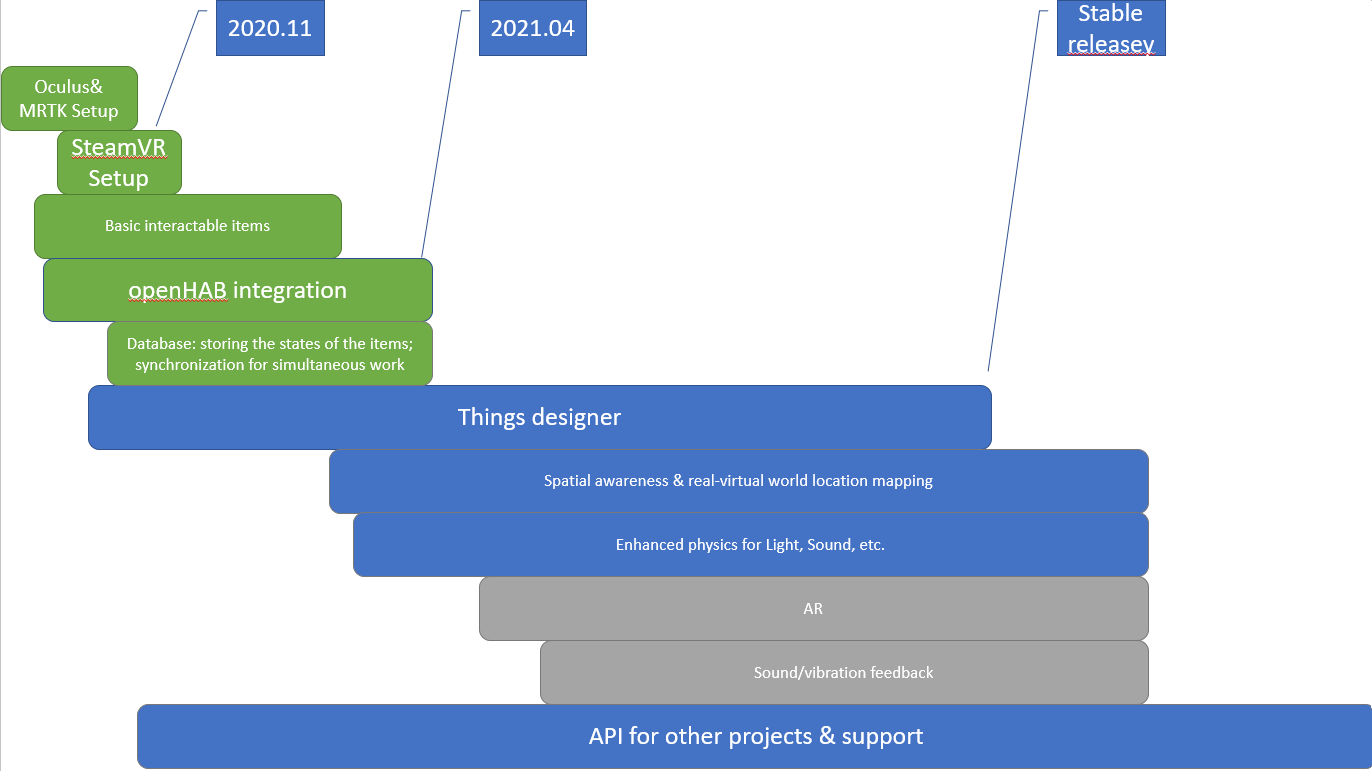
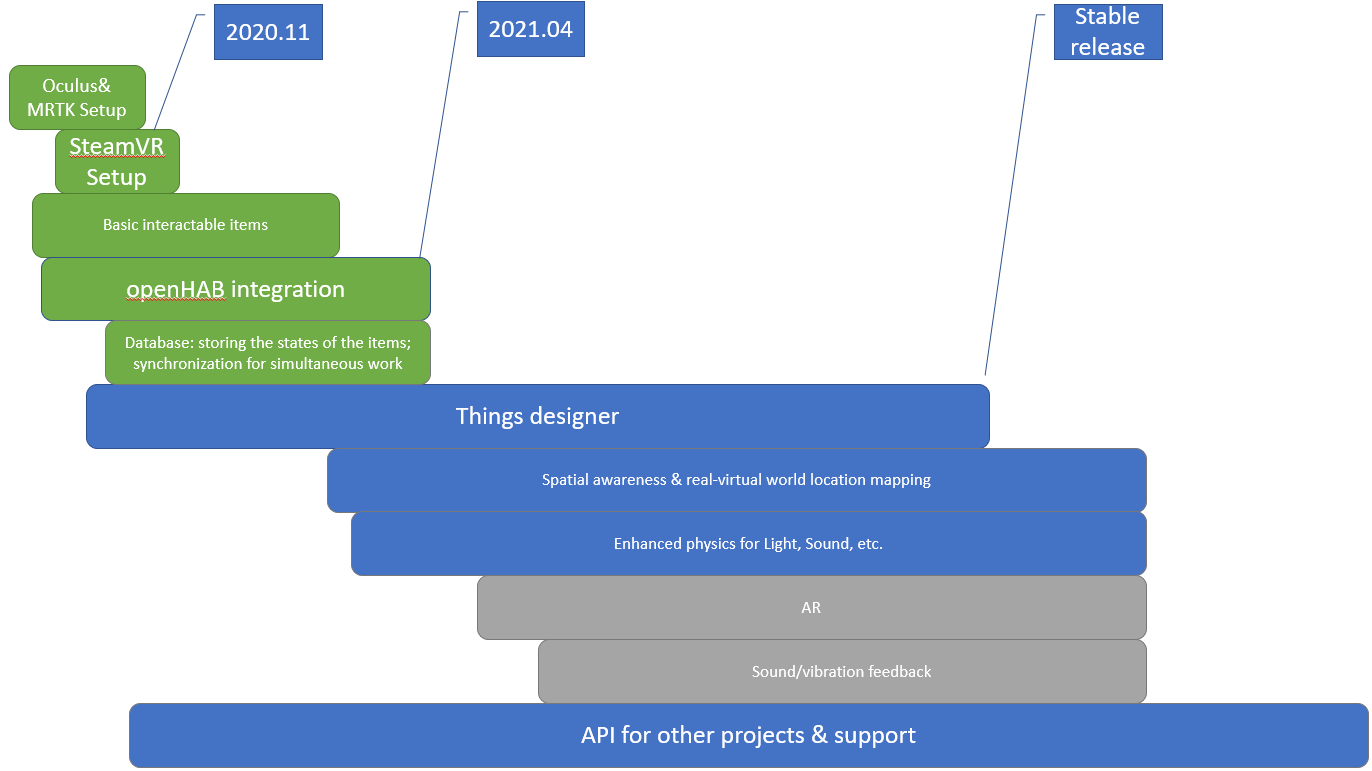
Updates from Overleaf

diff --git a/data/chap04.tex b/data/chap04.tex
@@ -43,7 +43,7 @@ Next is adding items linked to the lamp channels. In the example, the lamp brigh
 
 As seen in Figure~\ref{fig:SemanticModelOne-figure}, the user can move the dimmer to control the lamp's light brightness. The real-world lamp will change the brightness based on the value on the server.
 
-The next step is adding item tags for gesture control and for the light vizualization (Figure~\ref{fig:ItemEditPage-figure}).
+The next step is adding item tags for gesture control and for the light visualization (Figure~\ref{fig:ItemEditPage-figure}).
 
 \begin{figure}
   \centering
@@ -84,7 +84,7 @@ The first experiment is the system startup analysis, performed on three devices 
   \label{fig:SystemStartupScheme-figure}
 \end{figure}
 
-The hardware specifications are listed on Table~\ref{tab:hardware-specifications-table} \footnote{Localhost PC is a notebook running openHAB server as well as one instance of NUIX-Studio APP; Remote PC is a computer running one instance of NUIX-Studio APP and connected to the same Wi-Fi network as localhost PC; Oculus Quest is a Virtual Reality Headset running NUIX-Studio APP and connected to the same Wi-Fi network as PCs.}.
+The hardware specifications are listed in Table~\ref{tab:hardware-specifications-table} \footnote{Localhost PC is a notebook running openHAB server as well as one instance of NUIX-Studio APP; Remote PC is a computer running one instance of NUIX-Studio APP and connected to the same Wi-Fi network as localhost PC; Oculus Quest is a Virtual Reality Headset running NUIX-Studio APP and connected to the same Wi-Fi network as PCs.}.
 
 \begin{table}
   \centering
@@ -136,23 +136,76 @@ The results of this experiment will be used in the future: system initialization
 
 The following experiment uses a virtual reality headset, a smart light bulb, and a server running an application on it. Suppose that a light sensor is used inside a Smart home environment, located at a relatively large distance from the lamp (2-3 meters), and is triggered when the amount of light falling on its sensor exceeds a certain threshold. For example, this setup is used in industries to provide a comfortable lighting level while keeping an optimal amount of energy consumption. The light sensor triggers precisely at some sufficiently large value of the lamp brightness. Hence, the most accurate adjustment of the brightness level of the light bulb is needed.
 
-The previous experiment showed that gesture control could be used to control a lamp's brightness level. This experiment shows that the transfer of computations from the Virtual reality headset to the server is necessary. The user is asked to perform the same steps as in the previous experiment, with one more step added:  setting the brightness to the specified level. Suppose that the light sensor is triggered at a lamp light brightness level of 50 out of 100 \footnote{Using Fitts' law, it can be assumed that setting up brightness levels to different values takes different time. However, this effect is considered not significant for the experiment.}. The user's task is to set the light brightness to this value as quickly as possible using gesture control. In order to exclude additional operations not related to the direct use of gestures to change the brightness of the lamp, such as starting the system, the user had to repeat the step by setting the brightness of the light to the specified value two times. The interval between the first and second times, when the lamp brightness was equal to the specified value, can be divided into two components (Equation \eqref{eq:totaltime}): the user reaction time to a successful change in the brightness level $ t_{react} $, and the execution time of the new calibrations $ t_{cal} $.
+The previous experiment showed that gesture control could be used to control a lamp's brightness level. This experiment shows that the transfer of computations from the Virtual reality headset to the server is necessary in a specific case. The user is asked to perform the same steps as in the previous experiment, with one more step added:  setting the brightness to the specified level. Suppose that the light sensor is triggered at a lamp light brightness level of 50 out of 100 \footnote{Using Fitts' law, it can be assumed that setting up brightness levels to different values takes different time. However, this effect is considered not significant for the experiment.}. The user's task is to set the light brightness to the specified value as quickly as possible using gesture control. In order to omit additional operations not related to the direct use of gestures to change the brightness of the lamp, such as starting the system, the user had to repeat the step by setting the brightness of the light to the specified value two times. The interval between the first and second times, when the lamp brightness is equal to the specified value, can be divided into two components (Equation \eqref{eq:totaltime}): the user reaction time to a successful change in the brightness level $ t_{react} $, and the execution time of the new calibrations $ t_{cal} $.
+
 
 \begin{equation}
   t = t_{react} + t_{cal}
   \label{eq:totaltime}
 \end{equation}
 
-Five people participated in the two series of the experiment. In the first series, the light's illumination was computed on a Virtual reality headset, and in the second, on a server, periodically sending the lightmap to the Virtual reality headset. In each series of the experiment, twenty-five measurements were made, plotted on the graph (). User reaction time $ t_{react} $ is a value independent of the changed synchronization parameters. Therefore, the difference between the calculated time in the first and the second series of the experiment is equal to the difference between the time spent on calibrating the lamp brightness in the first and the second series of the experiment (Equation \eqref{eq:deltatime}).
+Two people participated in the two series of the experiment. In the first series, the light's illumination was computed on a Virtual reality headset, and in the second, on a server, periodically calculating the light map. User reaction time $ t_{react} $ is a value independent of the changed synchronization parameters. Therefore, the difference between the calculated time in the first and the second series of the experiment is equal to the difference between the time spent on calibrating the lamp brightness in the first and the second series of the experiment (Equation \eqref{eq:deltatime}).
 
 \begin{equation}
-  t _{\delta} = (t_{react} + t_{cal_1}) - (t_{react} + t_{cal_1}) = t_{cal_1} - t_{cal_2}
+  t _{\Delta} = (t_{react} + t_{cal_1}) - (t_{react} + t_{cal_1}) = t_{cal_1} - t_{cal_2}
   \label{eq:deltatime}
 \end{equation}
 
-As seen on the resulting histogram, the time difference between performing the calibration function in the first and second series of the experiment is 500 milliseconds.
+\begin{figure}
+  \centering
+  \includegraphics[width = 0.9 \linewidth]{figures/ExperimentTime.png}
+  \caption{Time spent on calibrating the lamp brightness, in ms}
+  \label{fig:ExperimentTime-figure}
+\end{figure}
 
-Additional data were also analyzed during the experiment, such as the number of frames per second with which the NUIX-Studio App was rendered on the screen. The graph () shows that in the first series of the experiment, the number of frames per second drops significantly as soon as the system is initialized and widgets for items from the Semantic model are created: from 72 frames per second, which is a hardware limitation of the Virtual reality headset, to 20 frames per second. In the second series of the experiment, such a drop is no longer observed (link to the graph): because the illumination was computed on a separate device, the number of frames per second drops only slightly from 72 to 65\footnote{Probably, because illumination computation is significant for the device's performance, especially its Graphics processing unit.}. Considering that gesture recognition is processed no more than once per frame, it significantly influenced the user experience, resulting in a big $t_{\delta}$. The more responsive the controller is, the faster the user can perform tasks such as clicking the buttons. However, the experiment's main challenge was to show how transferring resource-intensive computing from a VR headset to a server improves user experience, significant for the VR-IoT Research platform. Thus, the experiment can be considered successful.
+As it can be seen in the Figure~\ref{fig:ExperimentTime-figure}, the time it took the participants to perform the task is unstable, but it is still can be seen that on average it took more time to perform the task in the first series than in the second series for both users. In Figure~\ref{fig:DeltaTime-figure} it can be seen that $t_{\Delta}$ is more than zero for the most observations.
+
+\begin{figure}
+  \centering
+  \includegraphics[width = 0.9 \linewidth]{figures/DeltaTime.png}
+  \caption{The difference between the time spent on calibrating the lamp brightness in the first and the second series of the experiment, in ms}
+  \label{fig:DeltaTime-figure}
+\end{figure}
+
+Additional data were also analyzed during the experiment, such as the number of frames per second with which the NUIX-Studio App was rendered on the screen. Figure~\ref{fig:Series2FPSpng-figure} shows that in the first series of the experiment, the number of frames per second drops significantly as soon as the system is initialized and widgets for items from the Semantic model are created. In the second series of the experiment, such a drop is no longer observed (Figure~\ref{fig:Series1FPSpng-figure}): because the illumination was computed on a separate device, the number of frames per second drops only slightly \footnote{Probably, because illumination computation is significant for the device's performance, especially its Graphics processing unit.}.
+
+
+\begin{figure}
+  \centering
+  \includegraphics[width = 0.9 \linewidth]{figures/Series2FPSpng.png}
+  \caption{FPS graph during the first series of the experiment for transfer computations.}
+  \label{fig:Series2FPSpng-figure}
+\end{figure}
+
+\begin{figure}
+  \centering
+  \includegraphics[width = 0.9 \linewidth]{figures/Series1FPS.png}
+  \caption{FPS graph during the second series of the experiment for transfer computations.}
+  \label{fig:Series1FPSpng-figure}
+\end{figure}
+
+Considering that gesture recognition is processed no more than once per frame, it significantly influenced the user experience, resulting in a big $t_{\Delta}$. The frequency of gesture value retrieval can be called polling rate. When a polling rate is 1000Hz, the gesture position is retrieved only once per frame (Table~\ref{tab:polling-rate-table}). Probably, there is a linear dependency on the time spent on performing the test and the polling rate during the test.
+
+\begin{table}
+  \centering
+  \begin{threeparttable}[c]
+    \caption{Polling rate to response time of gesture recognition dependence}
+    \label{tab:polling-rate-table}
+    \begin{tabular}{ll}
+      \toprule
+      Polling rate, Hz    & Response time, ms                 \\
+      \midrule
+      72Hz & 13.9ms \\
+      65Hz & 15.4ms \\
+      20Hz & 50ms \\
+      10Hz & 100ms \\
+      \bottomrule
+    \end{tabular}
+  \end{threeparttable}
+\end{table}
+
+However, the experiment's main challenge was to show how transferring resource-intensive computing from a VR headset to a server improves user experience, significant for the VR-IoT Research platform. Thus, the experiment can be considered successful.\footnote{Please note that this experiment cannot be considered scientifically substantiated since the number of tests and the number of participants is small. In addition, it is impossible to control the external factors that add random error, such as system optimization that affects the stability of the frame rate, room lighting that affects the accuracy of hand recognition, the size of the participants' hands, and the participants' experience with virtual reality systems. As a result, the reproduction of this experiment is almost impossible. Nevertheless, this experiment serves as an example of the requirement to transfer resource-intensive computing from the VR headset to the server.
+}
 
 
 In the next experiment, the author proved that it is possible to work together in one VR-IoT environment by adding new IoT devices to the system and changing their parameters:
@@ -163,4 +216,4 @@ In the next experiment, the author proved that it is possible to work together i
 
 Thus, the speed of the network plays a significant role in the operation of the system. The minimal network latency available now in Wi-Fi 6 networks and 6G networks in the future can significantly improve the simultaneous work inside the same VR-IoT environment. However, it has been observed that operations such as adding new devices to the system will remain time-consuming. Since there is a request to create game objects for each of the Item's widgets, the author assumes that the main delay is associated precisely with the internal processes inside the Unity 3D engine.
 
-The next chapter will show you how the VR-IoT research platform developers can theoretically work around these limitations.
+The next chapter shows how the VR-IoT research platform developers can theoretically work around these limitations.

diff --git a/data/chap06.tex b/data/chap06.tex
@@ -1,31 +1,56 @@
 % !TeX root = ../thuthesis-example.tex
 
-\chapter{SUMMARY, DISCUSSION AND FUTURE DIRECTIONS}
+\chapter{DISCUSSION}
 
-\section{Discussion and future directions}
+\section{Future directions}
 
-The work's novelty lies in the fact that there are no studies on the creation and interaction of devices for a VR-IoT environment. All similar researches concentrate on controlling IoT devices using Virtual reality headsets.
-The author hopes to continue working on the platform in the future in the university laboratory. The possible timeline for the development has been created.
+The possible timeline for the development was created.
 
 \begin{figure}
   \centering
   \includegraphics[width=0.9\linewidth]{figures/Timeline.png}
-  \caption{Timeline}
+  \caption{Timeline for NUIX-Studio platform development. Green color indicates that the task has been developed, blue color indicates that the task development has been started, and grey color that it has not started yet.}
   \label{fig:Timeline-figure}
 \end{figure}
 
-As seen in (Figure~\ref{fig:Timeline-figure}), the development started from providing support for Virtual reality headsets. The next step was implementing openHAB and database support to perform simultaneous interaction in the same environment by several App instances. In the text of this research, it was discussed that these two tasks could be considered complete. However, the Things designer is not fully developed since further research is needed to provide a wider variety of supported Widgets and Items.
+As seen in Figure~\ref{fig:Timeline-figure}, the development started from providing support for Virtual reality headsets. The next step was implementing openHAB and database support to perform simultaneous interaction in the same environment by several App instances. In the text of this research, it was discussed that these two tasks could be considered complete. However, the Things designer is not fully developed since further research is needed to provide a wider variety of the supported Widgets and Items.
 
 Mixed Reality toolkit can provide real-world environmental awareness for apps running on Hololens. It is already possible to run NUIX-Studio APP on Hololens, although it has not yet been tested. Using spatial awareness, NUIX-Studio App will be possible to align virtual Widgets onto IoT devices. Developing real-virtual world location mapping for the Widgets for Virtual reality will be required as well.
 
 Currently, only advanced illumination can be computed on the NUIX-Studio APP. Researchers may need more accurate data to create new IoT devices. In this case, Unity Game Engine can be extended with more precise light, sound, and other physics support.
 
-Providing AR support requires adding new interaction techniques and training Deep learning models to provide object recognition. Users can use both AR and VR to research new IoT devices, with AR being responsible for retrieving the coordinates of the devices from the real world (by OpenCV, Tensoflow Graphics, etc.), and VR for visualizing environments that are difficult or impossible to implement in AR (for example, flying on a plane or driving a car).
+Enabling AR support requires adding new interaction techniques and training Deep learning models to provide object recognition. Users can use both AR and VR to research new IoT devices, with AR being responsible for retrieving the coordinates of the devices from the real world (by OpenCV, Tensoflow Graphics, etc.), and VR for visualizing environments that are difficult or impossible to implement in AR (for example, flying on a plane or driving a car).
 
 Augmented reality, Virtual reality, and Mixed Reality are not the only interfaces to interact with IoT in the virtual world. What if the feedback from IoT devices only by sound and vibrations is provided? NUIX-Studio can be adapted for such limitations. One of the example usages of this approach is research for visually impaired people in an IoT environment.
 
-During the entire development cycle, an API must be developed for embedding external developments into the platform, including projects of HCI Lab students. 
+The platform is going to be used as a tool to integrate other researches. During the whole development cycle, the NUIX-Studio API for being used in external projects must be up-to-date. 
 
 \section{Summary}
 
-The purpose of the work is completed: a platform for creating new devices for the existing IoT world in Virtual reality is presented, which helps develop new devices. It has been shown that it allows this to be done both theoretically and practically.
+The result of the research is the developed concept of the platform, as well as the basis for the further development of tools for creating IoT devices in virtual, augmented, and mixed reality. By creating a prototype platform, the following results were obtained:
+\begin{enumerate}
+    \item It has been proven that using the presented architecture, any IoT devices can be added to the virtual world;
+    \item It has been proven that it is possible to add new functionality to existing IoT devices inside VR environment;
+    \item It has been proven that it is possible to create completely virtual devices and embed them in the same environment with real devices;
+    \item It has been proven that the synchronization time between devices within the IoT-VR environment is currently limited by the network speed;
+    \item It has been proven that it is possible for several users to work simultaneously in one IoT-VR environment;
+    \item It has been proven that to improve user experience, it is necessary to separate data and interaction calculation tasks between different application instances;
+    \item It is proved that the created solution is scalable;
+\end{enumerate}
+
+
+The developed solution has the following advantages:\footnote{Considering that there are no similar solutions on the market, these advantages can be considered a reserve for the future}
+\begin{enumerate}
+    \item Integration of third-party solutions is possible both from the IoT support side and from the VR side;
+    \item The platform implementation is lightweight and is not based on many third-party frameworks;
+    \item The development team can add new members without the need to teach people new technologies since the main part of the platform is written in C# inside the Unity engine. It also gives the advantage of more convenient adding external projects into the platform;
+    \item An API is being developed to create elements of interaction with IoT devices;
+    \item A tool called Thing designer is being developed, which allows researchers to create new IoT devices both using VR and using the Web interface;
+    \item A tool is being developed to track the position of real devices and synchronize with their position in the virtual world;
+    \item It is shown that the platform is capable of working not only with Virtual but also with Augmented and Mixed reality, and simultaneous operation of each reality-based App within the same IoT environment is possible;
+    \item It is shown that the platform provides support for complex physical computations.
+\end{enumerate}
+
+Nevertheless, there are still limitations associated with creating a complete copy of the real-world environment inside the virtual one, particularly the need to manually add movable objects in the form of Items and Widgets.
+
+The author hopes that this research will form the basis of a product that will have a significant value in the future, allowing the creation of new devices, including those for being used in new generation networks.

diff --git a/data/chap05.tex b/data/chap05.tex
@@ -46,7 +46,7 @@ However, in most cases, researchers can save time by using the basic Widgets. Se
 
 Thanks to using a block structure to represent devices, researchers can change various parameters of existing devices by changing specific blocks and create new devices by combining the blocks. This action is possible in a tool called Things designer. Further, this tool is described in detail.
 
-The Semantic model is visualized inside the Web interface. Researchers can assign Widgets for each of the Items and group the Items. After the setup is completed, researchers can further develop new devices inside the NUIX-Studio App. Next, they can create new Widgets inside VR and connect them to the existing Items. The position for each of the Widgets is added to the Semantic model as an Item. Having set the widget's position and other parameters, the user can exit the application on a device and then continue research using a different device or analyze the items' data stored on the server. Since changes in Items values are periodically written to the server, they can be visualized by the built-in system tools (Figure~\ref{fig: PersistenceExample-figure}) or further analyzed using external frameworks providing useful insights. In addition, NUIX-Studio App also allows the creation of not only Widgets but also Items. However, this functionality is limited at the moment, but, in theory, it will be possible to develop any device with support for creating Items for all types of data.
+The Semantic model is visualized inside the Web interface. Researchers can assign Widgets for each of the Items and group the Items. After the setup is completed, researchers can further develop new devices inside the NUIX-Studio App. Next, they can create new Widgets inside VR and connect them to the existing Items. The position for each of the Widgets is added to the Semantic model as an Item. Having set the widget's position and other parameters, the user can exit the application on a device and then continue research using a different device or analyze the items' data stored on the server. Since changes in Items values are periodically written to the server, they can be visualized by the built-in system tools (Figure~\ref{fig:PersistenceExample-figure}) or further analyzed using external frameworks providing useful insights. In addition, NUIX-Studio App also allows the creation of not only Widgets but also Items. However, this functionality is limited at the moment, but, in theory, it will be possible to develop any device with support for creating Items for all types of data.
 
 \begin{figure}
   \centering

diff --git a/data/abstract.tex b/data/abstract.tex
@@ -34,7 +34,7 @@
    
   The author proposes a synchronization mechanism that keeps the real and virtual devices up-to-date, according to actions and events in the virtual world and vice-versa: actions applied on the real devices are transferred to the virtual world. In this dissertation, it is questioned if, with the help of Virtual Reality interaction devices, such mechanism can be developed and be used as a part of an instrument for research on new devices, and whether it is possible to extend real-world devices with extra virtual sensors and interactive objects.
   
-  In this dissertation, a suitable architecture for this mechanism is proposed. By creating a prototype of the platform for seamless connection between real and virtual world, with a virtual representation of each Internet Of Things device parameters (data values) and two-way data transfer between real and virtual world, the performance of the system is evaluated, providing results for future development and consideration for future improvements. It is also discussed how to adapt the platform for running on Mixed reality and Augmented reality devices. Although the platform is in the prototype stage, it has already been used by the students of Tsinghua University for their projects. 
+  In this dissertation, a suitable architecture for this mechanism is proposed. By creating a prototype of the platform for seamless connection between real and virtual world, with a virtual representation of each Internet Of Things device parameters (data values) and two-way data transfer between real and virtual world, the performance of the system is evaluated, providing results for future development and consideration for future improvements. It is also discussed how to adapt the platform for running on Mixed reality and Augmented reality devices. Although the platform is in the prototype stage, it has already been used by the students of Tsinghua University in their course projects. 
   
   The platform can provide simultaneous work of multiple users within the same IoT-VR environment, advanced physics calculation and data analysis, as well as the integration of other solutions.
  

diff --git a/data/chap01.tex b/data/chap01.tex
@@ -38,9 +38,9 @@ Nevertheless, only using Virtual reality headsets does not solve the issue defin
 
 In Chapter 3, the author proposes a prototype for the platform, with its evaluation in Chapter 4. In Chapters 5 and 6, important assumptions were made on how the platform should be designed in terms of architecture and API to connect to the real-virtual world IoT devices.
 
-Summarizing the problem definition and research task stated previously:
+Summarizing the problem definition and research idea:
 
 \begin{itemize}
-    \item Problem definition: There is no instrument for fast creating, testing, and integrating new IoT devices inside an existing real-world environment.
-    \item Research task: Define a layer between real-world IoT devices and Virtual Reality. Create a prototype, evaluate the performance and usability and summarize the outputs to explain why the selected architecture can be used as the basis for the future product. (TODO: maybe change the description of the research task)
+    \item Problem definition: There is no instrument for fast creating, testing, and integrating new IoT devices inside an existing real-world environment.  
+    \item Research idea: Define a layer between real-world IoT devices and Virtual Reality. Create a prototype, evaluate the performance and usability and summarize the outputs to explain why the selected architecture can be used as the basis for the future product used to design new IoT devices.
 \end{itemize}

diff --git a/data/chap03.tex b/data/chap03.tex
@@ -19,7 +19,7 @@ Besides, devices can be distinguished by size, shape, various physical parameter
 
 When developing the prototype, it was decided to focus on supporting the basic controls and sensors, which will be discussed below.
 
-To preserve the narrative structure, the author introduces only the final platform prototype. However, the entire development cycle and the challenges faced are shown in appendix b.
+To preserve the narrative structure, the author introduces only the final platform prototype. However, the entire development cycle and the challenges faced are shown in Appendix.
 
 \section{Platform requirements}
 Firstly, the requirements the platform should follow are defined:
@@ -174,7 +174,7 @@ By integrating Extra packages, NUIX-Studio platform can provide a bigger variety
   \label{fig:AppArchitecture-figure}
 \end{figure}
 
-\subsection{NUIX-Studio APP Semantic Model}
+\subsection{NUIX-Studio App Semantic Model}
 
 As mentioned above, the Semantic model in the NUIX-Studio App is kept equivalent to the Semantic model stored on the server. The advantages of this approach are:
 

diff --git a/thusetup.tex b/thusetup.tex
@@ -23,7 +23,7 @@
   title  = {VR-IoT环境下的虚拟世界连接接口研究\\
   \textbf{Real-virtual world connection interface for research in IoT environment}},
   % Input your title* in ENGLISH
-  title* = {Research on real-virtual world connection interface for VR-IoT environment},
+  title* = {Real-virtual world connection interface for research in IoT environment},
   %
   % 学位
   %   1. 学术型
@@ -76,7 +76,7 @@
   % Please input your supervisor's full name in Chinese, then comma, followed by 教授 (for Professor) and 副教授 (for Associate Prof.)
   supervisor  = {喻纯, 教授},
   % Please input your supervisor's title (ie Professor) and followed by full name in English
-  supervisor* = {Associate Professor Yu Chun},
+  supervisor* = {Professor Yu Chun},
   %
   % 副指导教师
   %

diff --git a/data/appendix-old.tex b/data/appendix-old.tex
@@ -1,6 +1,8 @@
 % Appendix
 
-\chapter{Title bla..bla..bla...}
+\chapter{USE IN EXTERNAL PROJECTS}
+
+Также будет еще один аппендикс по поводу цикла разработки
 
 You can include in this section important evidence that is related to your research, but might affect the logic of your main thesis if included in the main writing. E.G. tables, pseudo-code, graphs etc. You can add accordingly.
 附录是与论文内容密切相关、但编入正文又影响整篇论文编排的条理和逻辑性的资料，例如某些重要的数据表格、计算程序、统计表等，是论文主体的补充内容，可根据需要设置。
